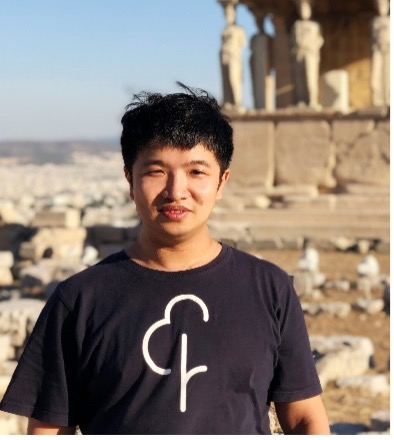
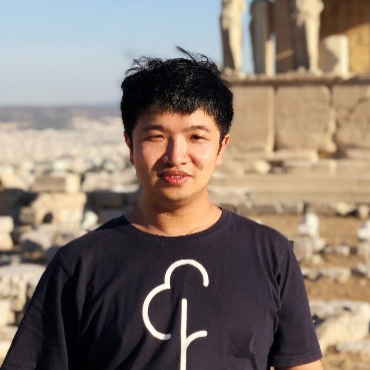
update invited talks infromation for Zirui Chen

diff --git a/inv.html b/inv.html
@@ -2,56 +2,55 @@
 <html>
 
 <head>
-	<base href="/kgma.github.io/">
-	<meta charset="utf-8">
-	<title>The 5th International Workshop on Knowledge Graph Management and Applications (KGMA 2022)</title>
-	<link rel="stylesheet" type="text/css" href="/css.css">
+    <base href="/kgma.github.io/">
+    <meta charset="utf-8">
+    <title>The 5th International Workshop on Knowledge Graph Management and Applications (KGMA 2022)</title>
+    <link rel="stylesheet" type="text/css" href="/css.css">
 </head>
 
 <body>
-	<div id="container">
-		<div id="header" style="background: url(/head.jpg); background-size: 1000px 250px;position:relative;">
-			<h1 style="margin-left:20px;">
-				<div id="apple"><a style="font-size: 28px;" href="https://kgma.github.io/">KGMA <span
-							style="font-size: 28px;">2022</span></a></div>
-				<small>The Fifth International Workshop on <br />Knowledge Graph Management and Applications (KGMA
-					2022)<br />
-					<div id="apple">
-						<a href="https://apweb-waim2022.com/">in conjunction with APWeb-WAIM 2022 </a>
-					</div>
-				</small>
-			</h1>
-			<div style="position:absolute; bottom:0; right:0;">
-				<p
-					style="color:#FFFF00;line-height: 0;font-size:24px;text-align: right; margin-right:10px;font-style:oblique;font-family:STLiti;font-weight: bold;">
-					November 25-27, 2022, Nanjing, China</p>
-			</div>
-		</div>
-		<div id="main">
-			<div id="menu">
-				<div class="line"></div>
-				<div><a class="item" href="/">Call for Papers</a></div>
-				<div><a class="item" href="/org.html">Organization</a></div>
-				<div><a class="item" href="/dates.html">Important Dates</a></div>
-				<div><a class="item" href="/sub.html">Paper Submission</a></div>
-				<div><a class="item" href="/inv.html">Invited Talks</a></div>
-				<div><a class="item" href="/acc.html">Accepted Papers</a></div>
-				<div><a class="item" href="/cam.html">Camera-Ready Instructions</a></div>
-				<div><a class="item" href="/wor.html">Workshop Program</a></div>
-				<div class="line"></div>
+    <div id="container">
+        <div id="header" style="background: url(/head.jpg); background-size: 1000px 250px;position:relative;">
+            <h1 style="margin-left:20px;">
+                <div id="apple"><a style="font-size: 28px;" href="https://kgma.github.io/">KGMA <span
+                            style="font-size: 28px;">2022</span></a></div>
+                <small>The Fifth International Workshop on <br />Knowledge Graph Management and Applications (KGMA
+                    2022)<br />
+                    <div id="apple">
+                        <a href="https://apweb-waim2022.com/">in conjunction with APWeb-WAIM 2022 </a>
+                    </div>
+                </small>
+            </h1>
+            <div style="position:absolute; bottom:0; right:0;">
+                <p
+                    style="color:#FFFF00;line-height: 0;font-size:24px;text-align: right; margin-right:10px;font-style:oblique;font-family:STLiti;font-weight: bold;">
+                    November 25-27, 2022, Nanjing, China</p>
+            </div>
+        </div>
+        <div id="main">
+            <div id="menu">
+                <div class="line"></div>
+                <div><a class="item" href="/">Call for Papers</a></div>
+                <div><a class="item" href="/org.html">Organization</a></div>
+                <div><a class="item" href="/dates.html">Important Dates</a></div>
+                <div><a class="item" href="/sub.html">Paper Submission</a></div>
+                <div><a class="item" href="/inv.html">Invited Talks</a></div>
+                <div><a class="item" href="/acc.html">Accepted Papers</a></div>
+                <div><a class="item" href="/cam.html">Camera-Ready Instructions</a></div>
+                <div><a class="item" href="/wor.html">Workshop Program</a></div>
+                <div class="line"></div>
 
-				<div><img src="/LNCS.png"></div>
+                <div><img src="/LNCS.png"></div>
 
-			</div>
-			<div id="content">
+            </div>
+            <div id="content">
                 <h3>Invited Speakers</h3>
                 <div class="row">
                     <div class="section-row-content-chapter">
                         <table>
                             <tr>
                                 <td>
-                                    <img src="/image/HaofenWang.png" title="blob.png" height="130" width="130"
-                                        alt="blob.png" />
+                                    <img src="/image/HaofenWang.png" height="130" width="130" alt="Haofen Wang" />
                                 </td>
                                 <td valign="top">
                                     <div style="margin-left:10px">
@@ -106,8 +105,7 @@
                         <table>
                             <tr>
                                 <td>
-                                    <img src="/image/MengWang.jpg" title="blob.png" height="130" width="130"
-                                        alt="blob.png" />
+                                    <img src="/image/MengWang.jpg" height="130" width="130" alt="Meng Wang" />
                                 </td>
                                 <td valign="top">
                                     <div style="margin-left:10px">
@@ -147,6 +145,48 @@
                             young scientists in the world selected). His research area is in the knowledge graph and
                             cross-modal data.
                         </p>
+                        <hr>
+
+                        <table>
+                            <tr>
+                                <td>
+                                    <img src="/image/ZiruiChen.jpg" height="130" width="130" alt="Zirui Chen" />
+                                </td>
+                                <td valign="top">
+                                    <div style="margin-left:10px">
+                                        <div style="font-size: 16px;">
+                                            <strong>Zirui Chen</strong>
+                                        </div>
+                                        <br>
+                                        <br>
+                                        <div style="font-size: 16px;">
+                                            <strong>Tianjin University</strong>
+                                        </div>
+                                        <br>
+                                        <br>
+                                        <div style="font-size: 16px;">
+                                            <strong>Title: An explainable link prediction framework based on Markov
+                                                logic networks</strong>
+                                        </div>
+                                    </div>
+                                </td>
+                            </tr>
+                        </table>
+
+                        <p style="text-align: justify;">
+                            <strong>Abstract: </strong>Link prediction in knowledge hypergraphs has been recognized as a
+                            critical issue in various downstream tasks for knowledge-enabled applications. However, most
+                            existing approaches are primarily performed in a black-box fashion, which learn
+                            low-dimensional embeddings for inference, thus cannot provide human-understandable
+                            interpretation. This talk will explain how to perform knowledge hypergraph interpretable
+                            reasoning based on Markov logic networks.
+                        </p>
+                        <p style="text-align: justify;">
+                            <strong>Short Biography: </strong>
+                            Zirui Chen is a graduate student at School of Artificial Intelligence, College of
+                            Intelligence and Computing, Tianjin University. His research interests include knowledge
+                            representation learning and knowledge graph question and answering.
+                        </p>
                         <br>
                         <br>
                         <br>
@@ -158,14 +198,14 @@
                 </div>
                 <div class="clear"></div>
             </div>
-			<div class="clear"></div>
-		</div>
-		<div id="footer">
-			<div style="text-align: center; font-size: small;">
-				Copyright &copy; 2018-2022, KGMA
-			</div>
-		</div>
-	</div>
+            <div class="clear"></div>
+        </div>
+        <div id="footer">
+            <div style="text-align: center; font-size: small;">
+                Copyright &copy; 2018-2022, KGMA
+            </div>
+        </div>
+    </div>
 
 </body>
 

diff --git a/wor.html b/wor.html
@@ -97,6 +97,8 @@
                     <tr>
                         <td>3:50-4:30</td>
                         <td>
+                            Invited Talk: An explainable link prediction framework based on Markov logic networks.
+                            <br/> by Zirui Chen
                         </td>
                     </tr>
                     <tr>
